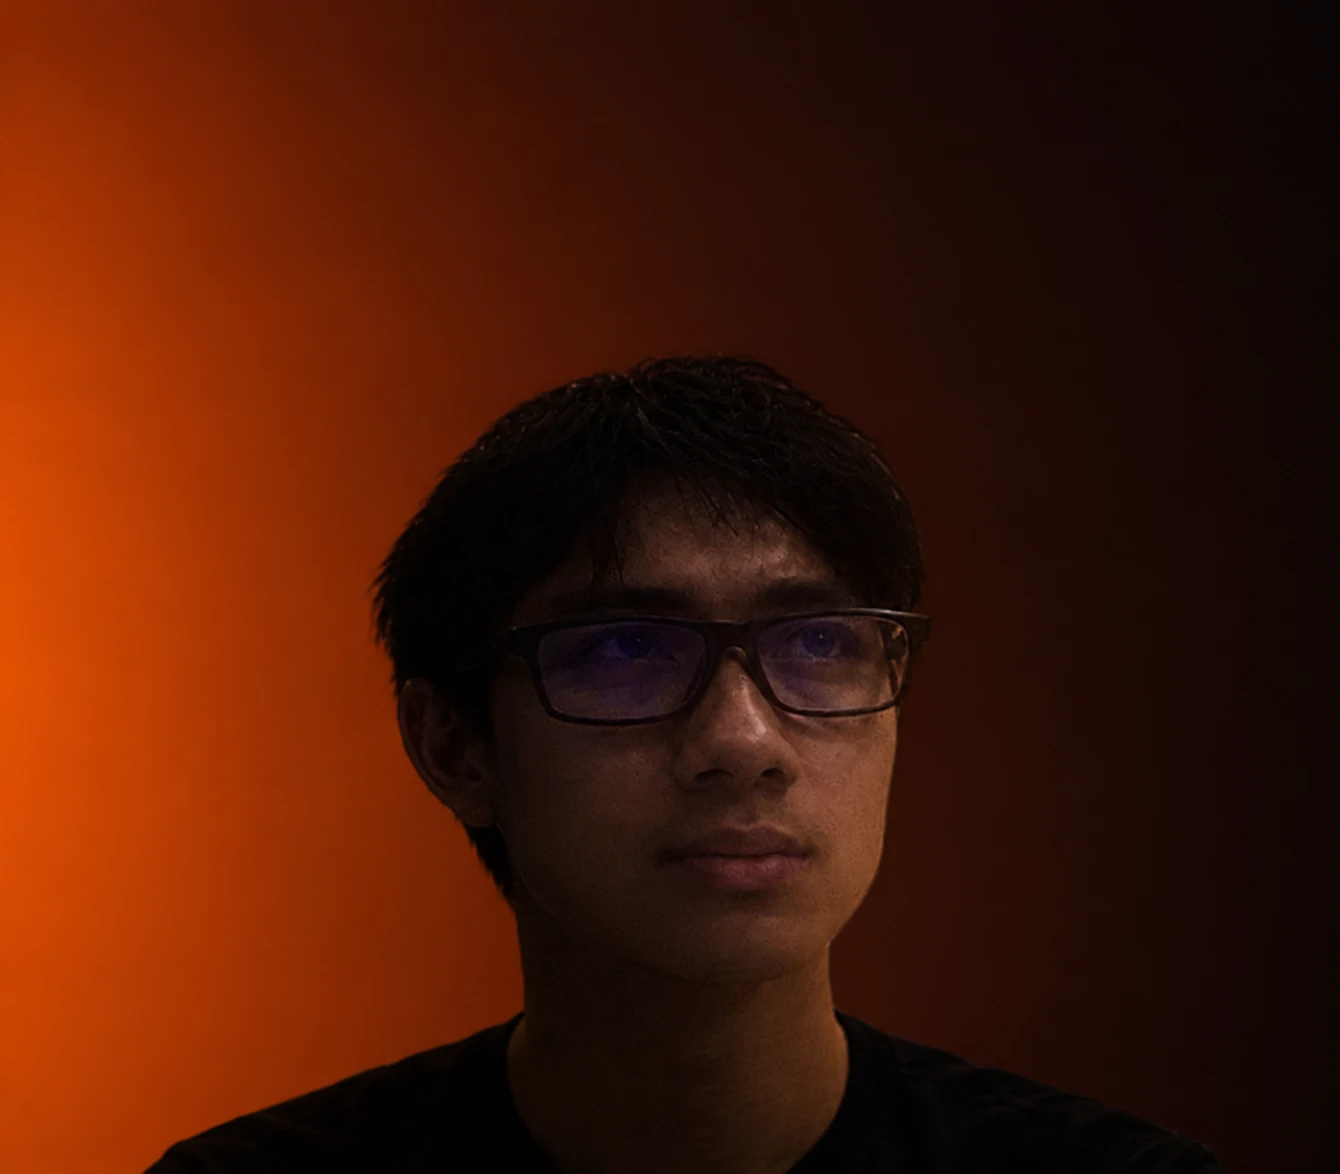
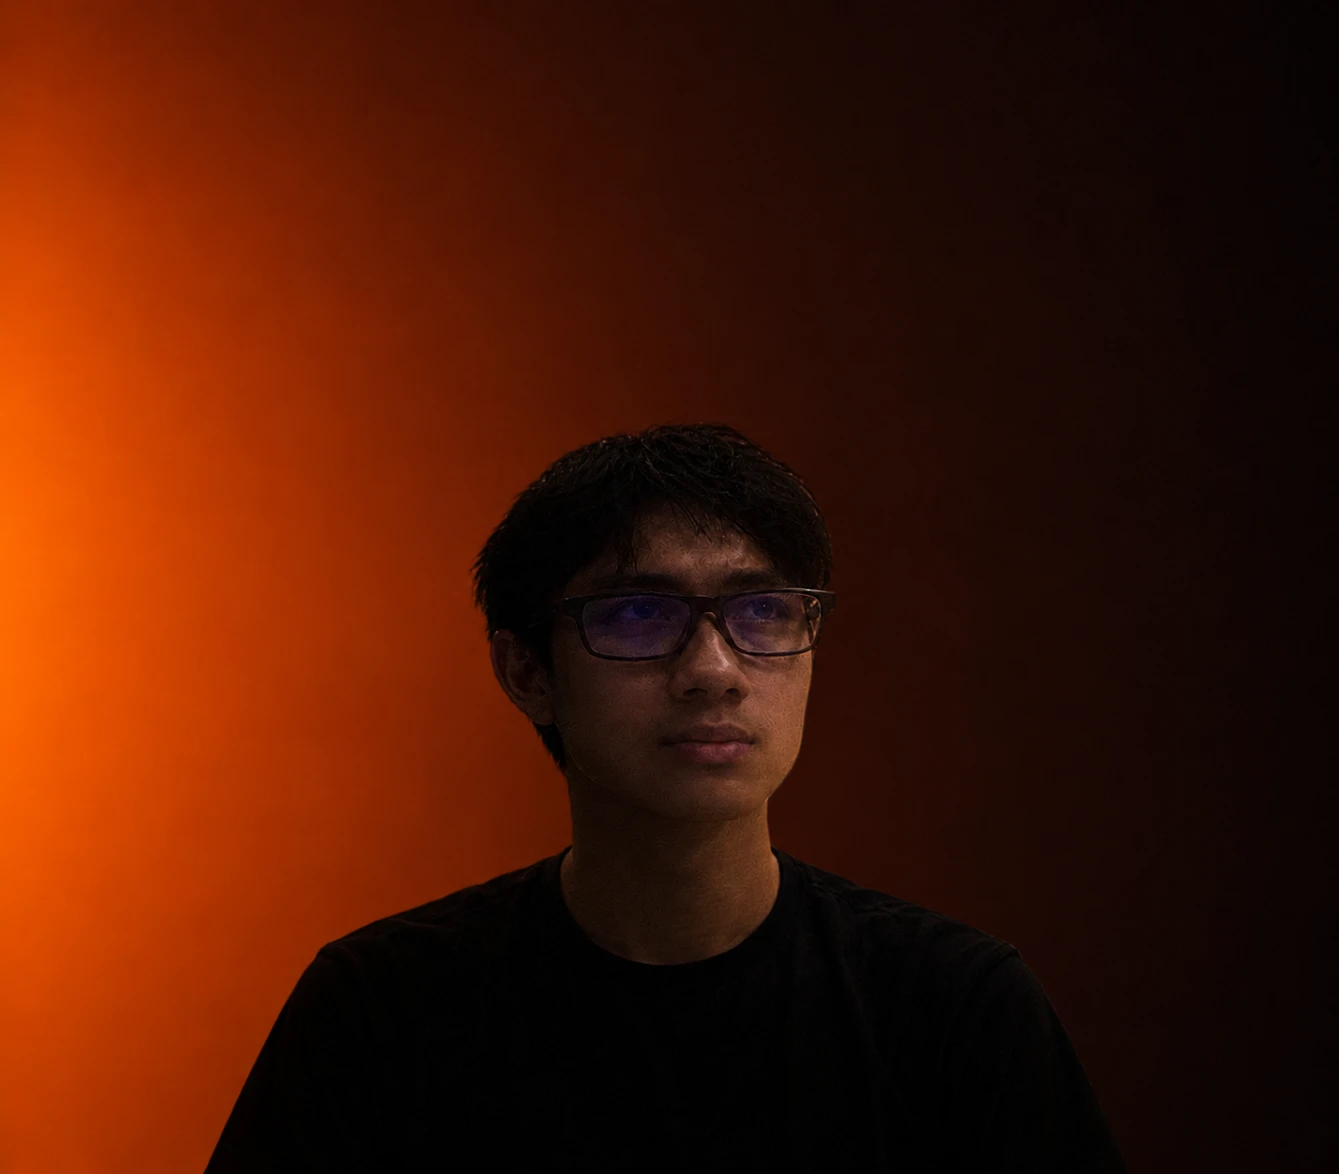
New profile photo, list-style home teasers
Claude-Session: https://claude.ai/code/session_013AA2twePgRDNoCM5SUjU1S

Changed region(s): [[0.0919, 0.3066, 0.8267, 1.0], [0.0, 0.1533, 0.245, 0.7053]]

diff --git a/css/styles.css b/css/styles.css
@@ -1,12 +1,12 @@
 :root{
-  --bg:#050505;--surface:#121110;--line:#2a2725;--ink:#faf7f3;--muted:#998f8f;
+  --bg:#050505;--surface:#121110;--line:#2a2725;--ink:#faf7f3;--muted:#998f8f;--dim:#2b2927;
   --accent:#f46c38;--accent-hot:#ff7a1a;--accent-ink:#ff8a57;--lime:#c5ff41;--on-accent:#151312;
   --card:#faf7f3;--card-ink:#151312;--card-muted:#6a6b6e;--card-accent:#e4531c;
   --font-head:"Poppins",system-ui,sans-serif;--font-body:"Inter",system-ui,sans-serif;
   --pad:clamp(1.25rem,4vw,3rem);--max:1200px;
 }
 [data-theme="light"]{
-  --bg:#faf7f3;--surface:#fff;--line:#e4ddd5;--ink:#151312;--muted:#6a6b6e;
+  --bg:#faf7f3;--surface:#fff;--line:#e4ddd5;--ink:#151312;--muted:#6a6b6e;--dim:#e2dbd2;
   --accent-ink:#b8400f;--card:#fff;
 }
 *{box-sizing:border-box;margin:0}
@@ -58,7 +58,7 @@ h2.title{font-size:clamp(2rem,5vw,3.5rem)}
 .hero{display:grid;grid-template-columns:minmax(0,420px) minmax(0,1fr);gap:clamp(2rem,6vw,5rem);align-items:center;padding:clamp(2rem,5vw,4rem) 0}
 @media (max-width:900px){.hero{grid-template-columns:1fr}.profile{max-width:440px;width:100%;margin-inline:auto}}
 .profile{position:relative;overflow:hidden;background:var(--card);color:var(--card-ink);border-radius:32px;padding:1.25rem 1.25rem 1.75rem;border:1px solid var(--line)}
-.profile .photo{position:relative;z-index:1;aspect-ratio:1;width:100%;height:auto;border-radius:24px;object-fit:cover;object-position:52% 52%}
+.profile .photo{position:relative;z-index:1;aspect-ratio:7/8;width:100%;height:auto;border-radius:24px;object-fit:cover;object-position:54% 50%}
 .profile .arc{position:absolute;z-index:0;width:170%;aspect-ratio:1;left:-35%;top:50%;border:2px dashed var(--card-accent);border-radius:50%;transform:rotate(14deg)}
 .profile .arc.two{top:58%;left:-20%;width:140%;transform:rotate(-8deg);opacity:.6}
 .badge{position:absolute;z-index:2;top:58%;right:.6rem;width:2.6rem;height:2.6rem;margin-top:-1.3rem;border-radius:50%;background:var(--card-accent);display:grid;place-items:center;transform:rotate(-14deg)}
@@ -81,13 +81,25 @@ h2.title{font-size:clamp(2rem,5vw,3.5rem)}
 .stat.lime span{color:#3b4a12}
 
 /* teasers */
-.teasers{display:grid;grid-template-columns:repeat(2,1fr);gap:1rem;padding:2rem 0 4rem}
-@media (max-width:700px){.teasers{grid-template-columns:1fr}}
-.teaser{display:flex;flex-direction:column;gap:1rem;justify-content:space-between;min-height:12rem;padding:1.75rem;border-radius:28px;background:var(--surface);border:1px solid var(--line);text-decoration:none;transition:transform .25s,border-color .25s}
-.teaser:hover{transform:translateY(-4px);border-color:var(--accent)}
-.teaser h2{font:800 clamp(1.6rem,3.5vw,2.4rem)/1 var(--font-head);text-transform:uppercase;letter-spacing:-.03em}
-.teaser p{color:var(--muted)}
-.teaser .go{font:600 .95rem var(--font-head);color:var(--accent-ink)}
+.teaser{padding:clamp(2rem,6vw,4rem) 0}
+.teaser:last-child{padding-bottom:4rem}
+.big{font:800 clamp(3rem,13vw,9rem)/.95 var(--font-head);text-transform:uppercase;letter-spacing:-.04em;margin-bottom:clamp(1.5rem,4vw,3rem)}
+.big span{display:block}
+.big .dim{color:var(--dim)}
+.rows{list-style:none;padding:0;display:grid;gap:clamp(1rem,2.5vw,1.75rem)}
+.row{display:flex;align-items:center;gap:clamp(1rem,3vw,2rem);text-decoration:none;border-radius:20px}
+.tile{flex:none;width:clamp(4.25rem,14vw,8rem);aspect-ratio:1;border-radius:clamp(14px,3vw,22px);display:grid;place-items:center;color:var(--on-accent);transition:transform .25s}
+.tile svg{width:38%;fill:none;stroke:currentColor;stroke-width:2;stroke-linecap:round;stroke-linejoin:round}
+.t1{background:linear-gradient(135deg,var(--accent),#7a2a0c)}
+.t2{background:linear-gradient(135deg,var(--lime),#2c3a0a)}
+.t3{background:linear-gradient(135deg,#3a3633,var(--accent-hot))}
+.txt{display:grid;min-width:0}
+.txt b{font:700 clamp(1.25rem,3.4vw,2rem)/1.2 var(--font-head);letter-spacing:-.02em;transition:color .2s}
+.txt span{color:var(--muted);font-size:clamp(.95rem,2vw,1.2rem)}
+.row .go{flex:none;margin-left:auto;width:clamp(1.25rem,3vw,1.75rem);fill:none;stroke:var(--accent);stroke-width:1.75;stroke-linecap:round;stroke-linejoin:round;transition:transform .2s}
+.row:hover .txt b{color:var(--accent-ink)}
+.row:hover .go{transform:translate(4px,-4px)}
+.row:hover .tile{transform:scale(1.03)}
 
 /* cards */
 .grid{display:grid;grid-template-columns:repeat(auto-fill,minmax(min(100%,17rem),1fr));gap:1rem;padding-bottom:4rem}

diff --git a/index.html b/index.html
@@ -47,9 +47,13 @@
 </div>
 </div>
 </section>
-<section class="teasers" aria-label="Explore">
-<a class="teaser rise" style="--i:5" href="projects.html"><h2>Recent projects</h2><p>A few things I've built and shipped.</p><span class="go">View projects &rarr;</span></a>
-<a class="teaser rise" style="--i:6" href="offline.html"><h2>Offline</h2><p>What I'm up to when the laptop is closed.</p><span class="go">See the other side &rarr;</span></a>
+<section class="teaser rise" style="--i:5" aria-labelledby="t-proj">
+<h2 class="big" id="t-proj"><span>Recent</span> <span class="dim">projects</span></h2>
+<ul class="rows"><li><a class="row" href="projects.html"><span class="tile t1" aria-hidden="true"></span><span class="txt"><b>Project name</b><span>AI tool</span></span><svg class="go" viewBox="0 0 24 24" aria-hidden="true"><path d="M7 17 17 7M8 7h9v9"/></svg></a></li><li><a class="row" href="projects.html"><span class="tile t2" aria-hidden="true"></span><span class="txt"><b>Project name</b><span>Web app</span></span><svg class="go" viewBox="0 0 24 24" aria-hidden="true"><path d="M7 17 17 7M8 7h9v9"/></svg></a></li><li><a class="row" href="projects.html"><span class="tile t3" aria-hidden="true"></span><span class="txt"><b>Project name</b><span>Open source</span></span><svg class="go" viewBox="0 0 24 24" aria-hidden="true"><path d="M7 17 17 7M8 7h9v9"/></svg></a></li></ul>
+</section>
+<section class="teaser rise" style="--i:6" aria-labelledby="t-off">
+<h2 class="big" id="t-off"><span>Offline</span> <span class="dim">hobbies</span></h2>
+<ul class="rows"><li><a class="row" href="offline.html"><span class="tile t1" aria-hidden="true"><svg viewBox="0 0 24 24"><path d="M4 8h3l2-3h6l2 3h3v11H4z"/><circle cx="12" cy="13" r="3.500"/></svg></span><span class="txt"><b>Photography</b><span>Chasing good light</span></span><svg class="go" viewBox="0 0 24 24" aria-hidden="true"><path d="M7 17 17 7M8 7h9v9"/></svg></a></li><li><a class="row" href="offline.html"><span class="tile t2" aria-hidden="true"><svg viewBox="0 0 24 24"><rect x="2" y="7" width="20" height="11" rx="5"/><path d="M7 10v5M4.500 12.500h5"/><circle cx="16" cy="11.500" r=".8"/><circle cx="18" cy="13.500" r=".8"/></svg></span><span class="txt"><b>Gaming</b><span>Playing for the stories</span></span><svg class="go" viewBox="0 0 24 24" aria-hidden="true"><path d="M7 17 17 7M8 7h9v9"/></svg></a></li><li><a class="row" href="offline.html"><span class="tile t3" aria-hidden="true"><svg viewBox="0 0 24 24"><path d="M9 18V6l11-2v12"/><circle cx="6.500" cy="18" r="2.500"/><circle cx="17.500" cy="16" r="2.500"/></svg></span><span class="txt"><b>Music</b><span>Always something on</span></span><svg class="go" viewBox="0 0 24 24" aria-hidden="true"><path d="M7 17 17 7M8 7h9v9"/></svg></a></li></ul>
 </section>
 </div>
 </main>
